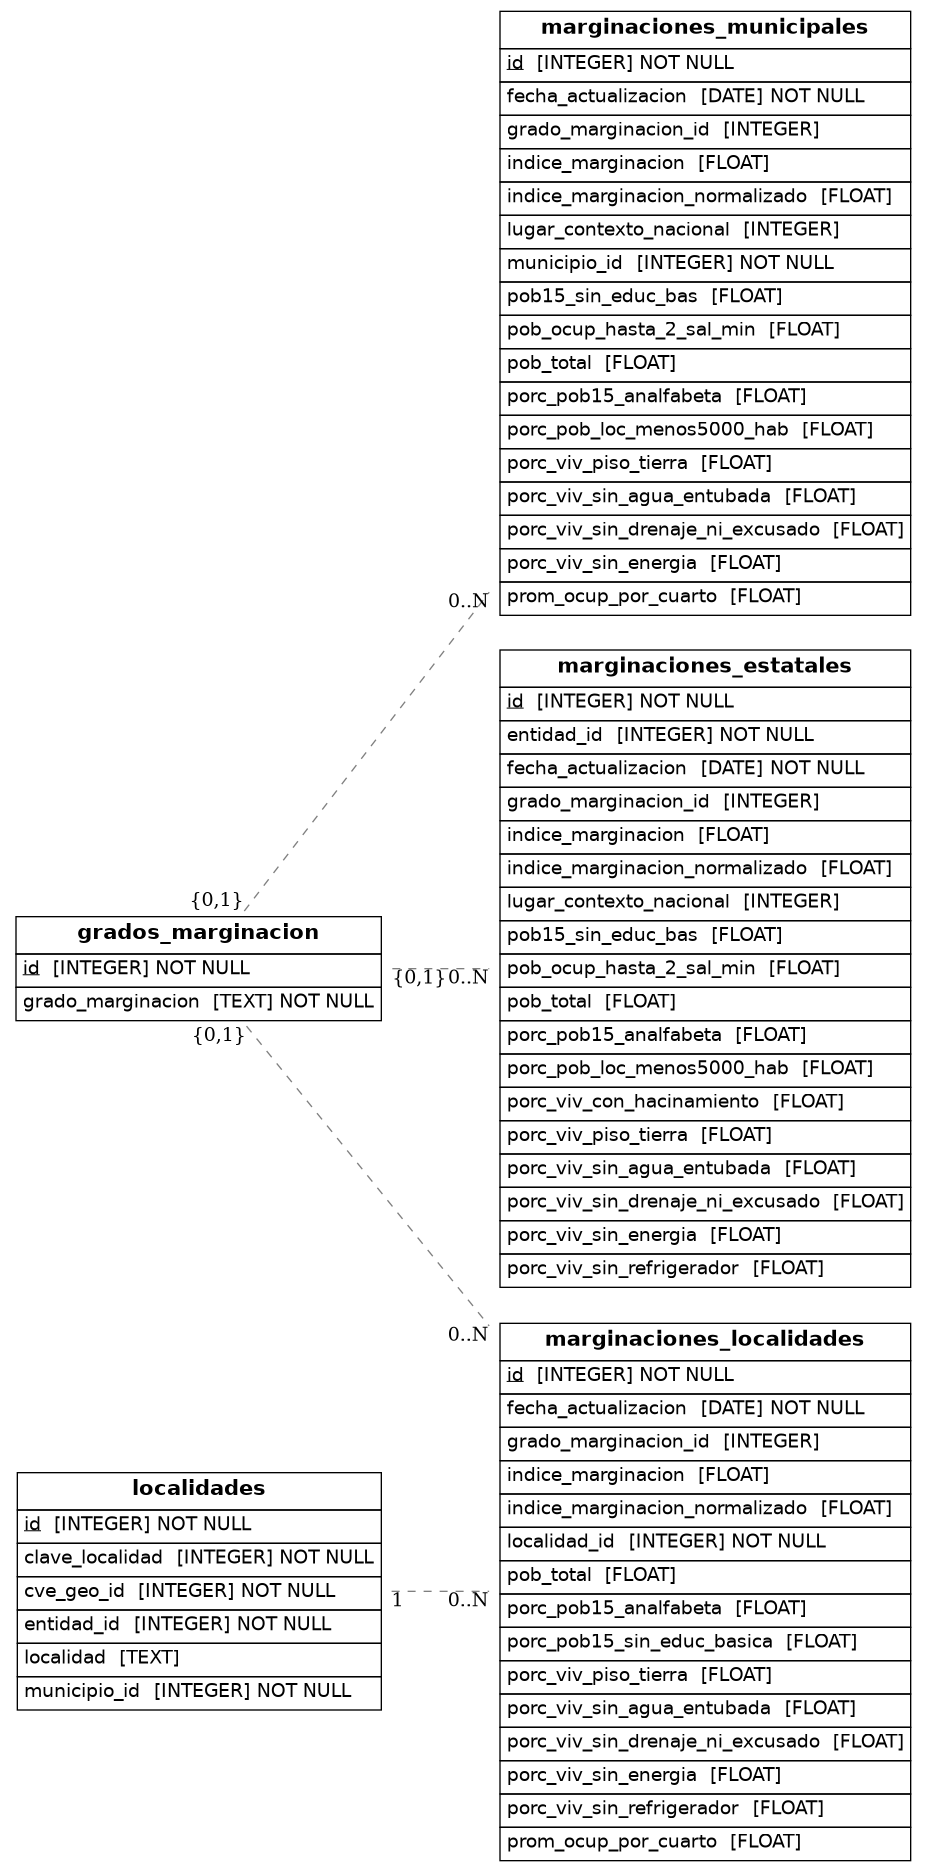
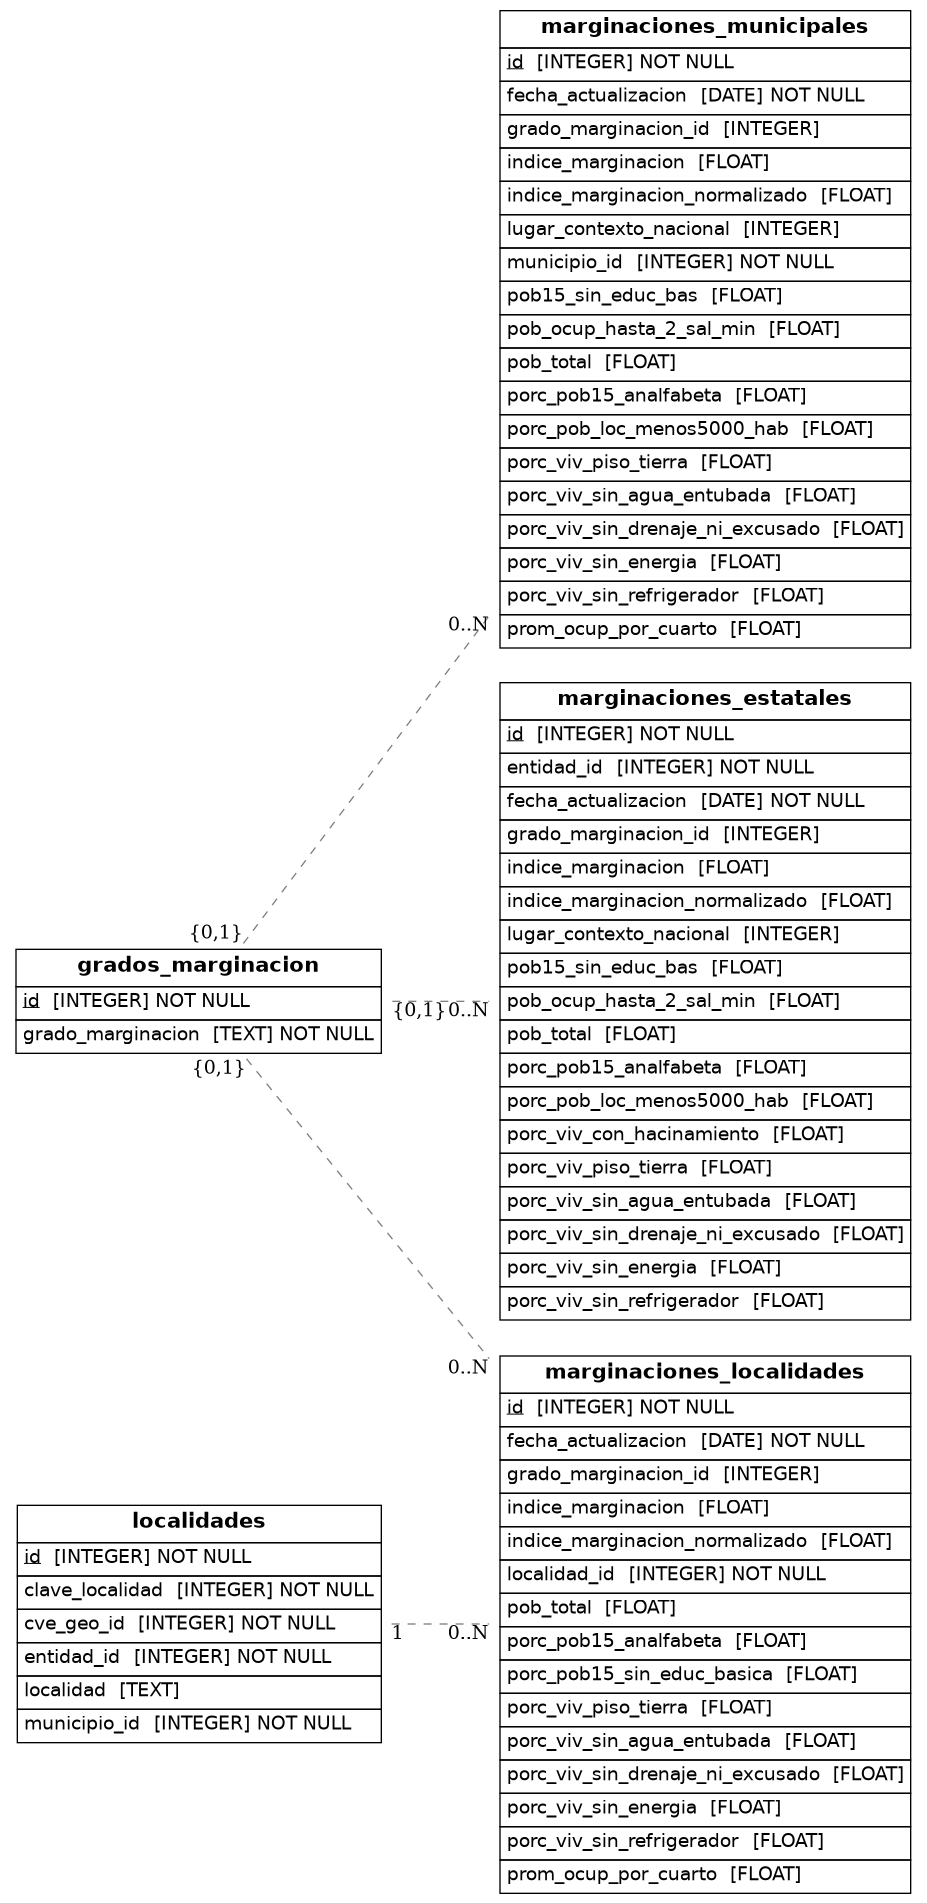
docs: update README and ERD for marginacion and intensidad_migratoria

diff --git a/core/pipelines/intensidad_migratoria/README.md b/core/pipelines/intensidad_migratoria/README.md
@@ -1,46 +1,58 @@
-# Pipeline: Intensidad Migratoria
+# intensidad_migratoria
 
-Pipeline ETL para el Índice de Intensidad Migratoria (IIM) publicado por CONAPO.
+Pipeline ETL para el Índice de Intensidad Migratoria México–Estados Unidos (IIM) publicado por CONAPO.
 
-## Fuentes de datos
+## Esquema
 
-| Fuente | Tipo | Nivel geográfico |
-|---|---|---|
-| IIM 2010 | XLS | Municipio |
-| IIM 2020 | CSV | Municipio |
-| IIM 2020 | CSV | Entidad |
+<img src="assets/erd.png" width="300" height="900">
 
-URLs configuradas en `.env` como `IIM_URL_MUNICIPAL_2010`, `IIM_URL_MUNICIPAL_2020`, `IIM_URL_ESTATAL_2020`. Todas requieren `verify=False`.
+## Diccionario de variables
 
-## Tablas
+### `iim_municipal`
 
-```
-iim_municipal                          iim_estatal
-──────────────────────────────         ──────────────────────────────
-id            SERIAL PK                id            SERIAL PK
-municipio_id  INTEGER NOT NULL         entidad_id    INTEGER NOT NULL
-viv_totales   INTEGER                  viv_totales   INTEGER
-por_viv_remesas    FLOAT               por_viv_remesas    FLOAT
-por_viv_emigrantes FLOAT               por_viv_emigrantes FLOAT
-por_viv_reto  FLOAT                    por_viv_reto  FLOAT
-iim_dp2       FLOAT                    iim_dp2       FLOAT
-fecha         INTEGER NOT NULL         fecha         INTEGER NOT NULL
-UNIQUE (municipio_id, fecha)           UNIQUE (entidad_id, fecha)
-```
+| Variable | Descripción |
+|----------|-------------|
+| `municipio_id` | Clave INEGI del municipio en formato cvegeo 5 dígitos (referencia a `cvegeo_municipalities`) |
+| `viv_totales` | Total de viviendas |
+| `por_viv_remesas` | % de viviendas que reciben remesas del exterior |
+| `por_viv_emigrantes` | % de viviendas con emigrantes residentes en Estados Unidos |
+| `por_viv_reto` | % de viviendas con migrantes de retorno de Estados Unidos |
+| `iim_dp2` | Valor del Índice de Intensidad Migratoria (método DP2) |
+| `grado_iim` | Grado de intensidad migratoria (Muy bajo, Bajo, Medio, Alto, Muy alto) |
+| `lugar_contexto_nacional` | Posición del municipio en el ranking nacional por índice de intensidad migratoria |
+| `fecha` | Año de la fuente (2010 o 2020) |
 
-`municipio_id` usa el código cvegeo de 5 dígitos (EEMMMM). `fecha` = año del censo (2010 o 2020).
+### `iim_estatal`
 
-## Flujo
+| Variable | Descripción |
+|----------|-------------|
+| `entidad_id` | Clave INEGI de la entidad federativa (referencia a `cvegeo_states`) |
+| `viv_totales` | Total de viviendas |
+| `por_viv_remesas` | % de viviendas que reciben remesas del exterior |
+| `por_viv_emigrantes` | % de viviendas con emigrantes residentes en Estados Unidos |
+| `por_viv_reto` | % de viviendas con migrantes de retorno de Estados Unidos |
+| `iim_dp2` | Valor del Índice de Intensidad Migratoria (método DP2) |
+| `grado_iim` | Grado de intensidad migratoria (Muy bajo, Bajo, Medio, Alto, Muy alto) |
+| `lugar_contexto_nacional` | Posición de la entidad en el ranking nacional por índice de intensidad migratoria |
+| `fecha` | Año de la fuente (2020) |
 
-- **Extract**: descarga 3 archivos vía HTTPS con SSL deshabilitado, cachea en pkl.
-- **Transform**: construye `municipio_id` cvegeo desde `ENT`+`MUN` para 2010, filtra fila nacional (`entidad_id = 0`) en estatal, concatena 2010+2020 en `iim_municipal`.
-- **Load**: `bulk_insert` para ambas tablas.
+## Fuentes
 
-## Vistas
+| Nivel | Fuente |
+|-------|--------|
+| Municipal 2010 | [IIM2010_BASEMUN.xls](http://www.conapo.gob.mx/work/models/CONAPO/intensidad_migratoria/base_completa/IIM2010_BASEMUN.xls) |
+| Municipal 2020 | [iim_base2020m.csv](https://conapo.segob.gob.mx/work/models/CONAPO/IIM/iim_base2020m.csv) |
+| Estatal 2020 | [iim_base2020e.csv](https://conapo.segob.gob.mx/work/models/CONAPO/IIM/iim_base2020e.csv) |
 
-- `view_iim_entidades` — todas las entidades con nombre, lugar por `iim_dp2` ascendente y año.
-- `view_iim_municipios_jalisco` — municipios de Jalisco con clave y nombre.
+## Actualización
 
-## Periodicidad
+**Frecuencia:** cada 10 años, al momento de publicación de CONAPO con base en el Censo de Población y Vivienda de INEGI (último: 2020).
 
-Bootstrap único bajo demanda. Sin actualizaciones (publicación decenal).
+**Manual.** CONAPO no ofrece API ni feed automático. La siguiente publicación se espera alrededor de 2031, una vez procesados los resultados del Censo 2030.
+
+Para incorporar un nuevo año:
+
+1. Agregar las URLs de los nuevos archivos en `.env` y `config.py`
+2. Verificar si los nombres de columna cambiaron y actualizar los dicts en `constants.py`
+3. Agregar el procesamiento del nuevo año en `transform.py`
+4. Ejecutar `python dags/etl_intensidad_migratoria.py`

diff --git a/core/pipelines/marginacion/README.md b/core/pipelines/marginacion/README.md
@@ -26,6 +26,7 @@ Pipeline ETL para el índice y grado de marginación municipal, por localidad y 
 | `pob_ocup_hasta_2_sal_min` | % de población ocupada con ingresos de hasta 2 salarios mínimos |
 | `indice_marginacion` | Índice de marginación calculado por CONAPO |
 | `indice_marginacion_normalizado` | Índice de marginación normalizado en escala 0–100 |
+| `porc_viv_sin_refrigerador` | % de viviendas particulares habitadas sin refrigerador (calculado desde ITER 2020 de INEGI; nulo para 2010 y 2015) |
 | `lugar_contexto_nacional` | Posición del municipio en el ranking nacional por índice de marginación |
 
 ### `marginaciones_estatales`
@@ -93,5 +94,5 @@ Para incorporar un nuevo año de publicación:
 2. Verificar si los nombres de columna cambiaron en la fuente y actualizar `rename_municipal`, `rename_estatal` y `rename_localidad` en `constants.py`
 3. Verificar si el patrón de URL cambió y actualizar `config.py` y `.env.example`
 4. Para el año estatal, identificar el nuevo archivo en el portal de CONAPO y actualizar `_fetch_estatal` en `extract.py`
-5. Para `porc_viv_sin_refrigerador`, actualizar la URL del ITER en `_fetch_pct_sin_refrigerador_all` cuando se publique el Censo 2030
+5. Para `porc_viv_sin_refrigerador`, actualizar la URL del ITER en `_fetch_iter_refri` en `extract.py` cuando se publique el Censo 2030
 6. Ejecutar `python dags/etl_marginacion.py`
